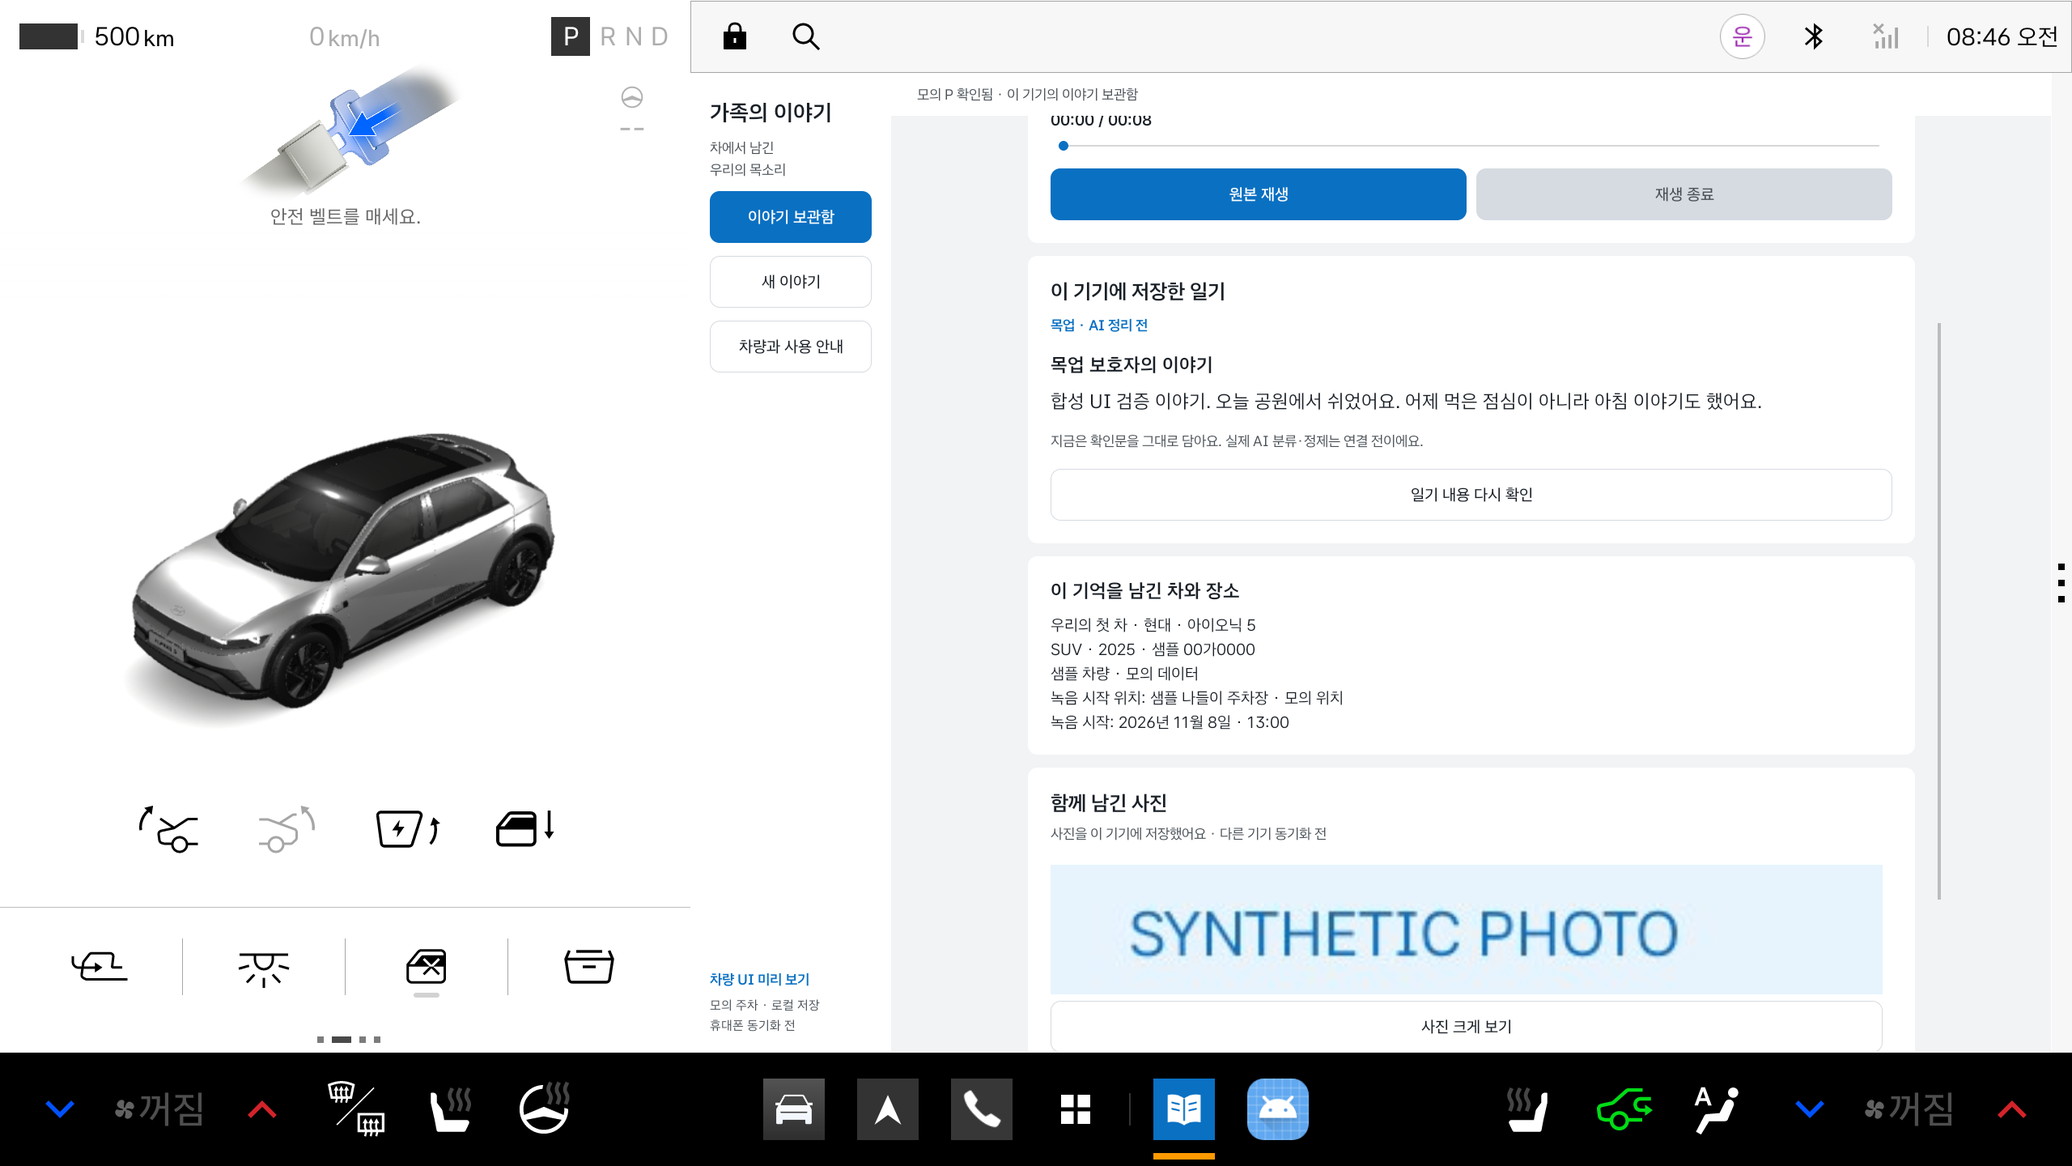
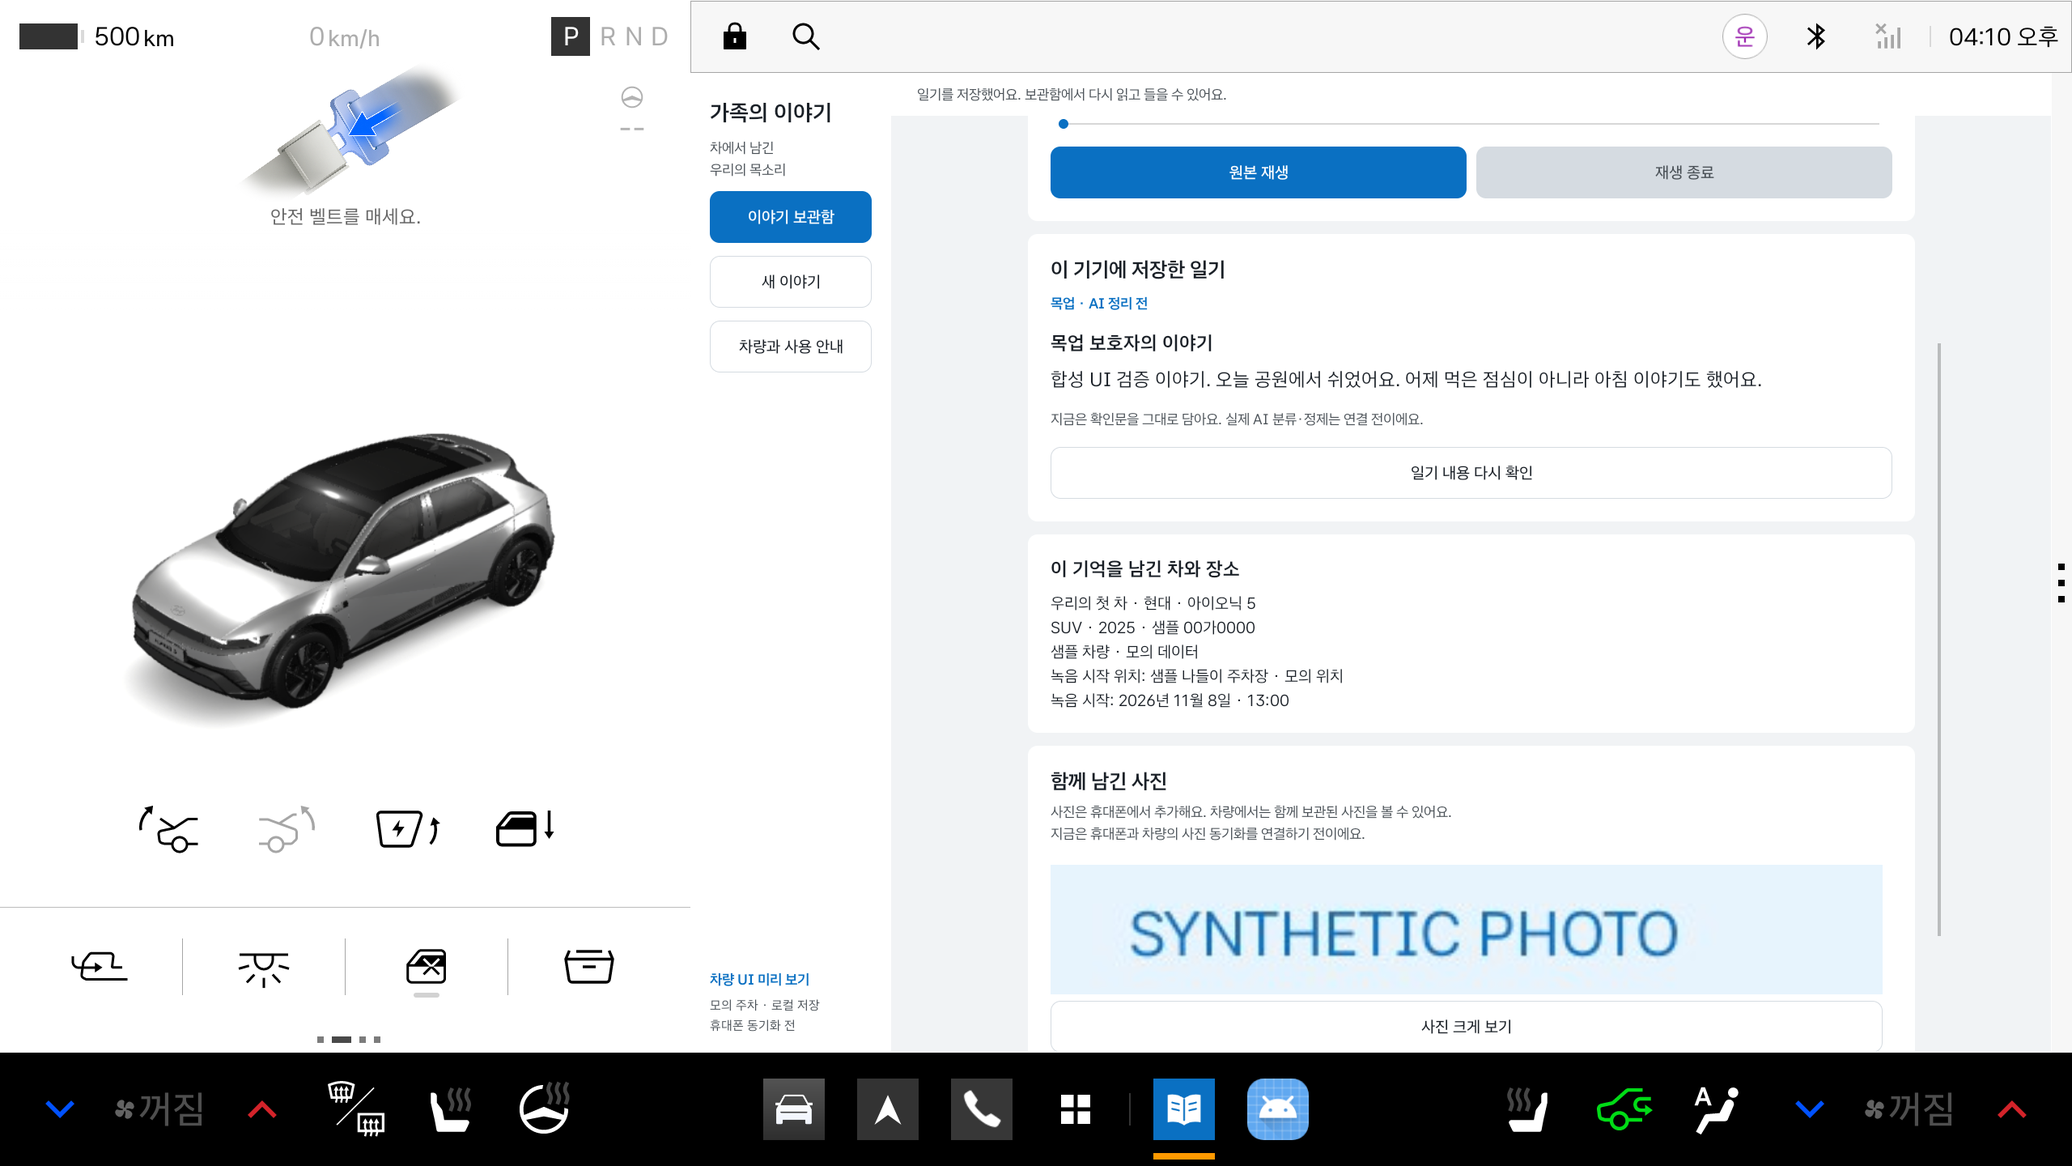
fix(vehicle): keep photo attachments on phone and web

diff --git a/apps/vehicle/app/src/probe/java/io/hmg/familydiary/MainActivity.kt b/apps/vehicle/app/src/probe/java/io/hmg/familydiary/MainActivity.kt
@@ -3,7 +3,6 @@ package io.hmg.familydiary
 import android.Manifest
 import android.app.Activity
 import android.app.AlertDialog
-import android.content.Intent
 import android.content.pm.PackageManager
 import android.graphics.BitmapFactory
 import android.media.AudioAttributes
@@ -68,7 +67,6 @@ class MainActivity : Activity() {
     private lateinit var editBody: LinearLayout
     private lateinit var contextBody: LinearLayout
     private lateinit var photosBody: LinearLayout
-    private lateinit var photoButton: Button
     private lateinit var photoStatus: TextView
     private lateinit var navigation: List<Button>
     private lateinit var tabs: List<Button>
@@ -80,8 +78,6 @@ class MainActivity : Activity() {
     private var loadGeneration = 0
     private var openGeneration = 0
     private var photoGeneration = 0
-    private var pendingPhotoId: String? = null
-    private var importing = false
     private var modal: AlertDialog? = null
     private var player: MediaPlayer? = null
     private var prepared = false
@@ -316,9 +312,8 @@ class MainActivity : Activity() {
         contextBody = ui.column(); ui.add(body, contextBody, 16)
         val photoCard = ui.card(body)
         ui.add(photoCard, ui.text("함께 남긴 사진", 26f, true))
-        photoStatus = ui.text("직접 고른 사진만 이 기기에 보관해요 · 최대 8장", 18f, color = ui.muted); ui.add(photoCard, photoStatus, 12)
+        photoStatus = ui.text("사진은 휴대폰에서 추가해요. 차량에서는 함께 보관된 사진을 볼 수 있어요.\n지금은 휴대폰과 차량의 사진 동기화를 연결하기 전이에요.", 18f, color = ui.muted); ui.add(photoCard, photoStatus, 12)
         photosBody = ui.column(); ui.add(photoCard, photosBody, 16)
-        photoButton = ui.button("사진 추가") { choosePhoto() }; ui.add(photoCard, photoButton, 16)
         ui.add(body, ui.button("이 이야기 삭제") { confirmDelete() }, 24)
         return scroll
     }
@@ -436,7 +431,7 @@ class MainActivity : Activity() {
     }
     private fun vehicle() = runCatching { VehicleSnapshot.read(JSONObject(prefs.getString("profile", "{}")!!)) }.getOrDefault(VehicleSnapshot())
     private fun navigate(next: Screen) {
-        if (!allowed() || !idle() || importing || !review.save()) return
+        if (!allowed() || !idle() || !review.save()) return
         ++openGeneration; hideKeyboard(); screen = next
         if (next == Screen.LIBRARY) refreshLibrary()
         if (next == Screen.RECORD) { timer.text = "00:00"; captureContext.text = contextDescription(MemoryContext(Instant.now().toString(), vehicle(), prefs.getBoolean("mock-location", false))).substringBefore("\n녹음 시작:") + "\n녹음을 시작하는 순간의 값으로 보관해요." }
@@ -453,7 +448,7 @@ class MainActivity : Activity() {
         detail.visibility = if (allowed && screen == Screen.DETAIL) View.VISIBLE else View.GONE
         settings.visibility = if (allowed && screen == Screen.SETTINGS) View.VISIBLE else View.GONE
         navigation.forEachIndexed { index, b ->
-            b.isEnabled = allowed && idle() && !importing
+            b.isEnabled = allowed && idle()
             b.isSelected = when(index) { 0 -> screen == Screen.LIBRARY || screen == Screen.DETAIL; 1 -> screen == Screen.RECORD; else -> screen == Screen.SETTINGS }
             ui.style(b, b.isSelected)
         }
@@ -463,7 +458,6 @@ class MainActivity : Activity() {
         stop.isEnabled = player != null
         seek.isEnabled = allowed && selected != null && !capture.busy && !speech.busy && !review.busy
         recognize.isEnabled = allowed && idle() && selected != null
-        photoButton.isEnabled = allowed && idle() && !importing && selected != null
         readBody.visibility = if (tab == 0) View.VISIBLE else View.GONE
         originalBody.visibility = if (tab == 1) View.VISIBLE else View.GONE
         editBody.visibility = if (tab == 2) View.VISIBLE else View.GONE
@@ -557,36 +551,6 @@ class MainActivity : Activity() {
         review.save(); review.cancel(); capture.stop(true); stopPlayback(); speech.cancel(); abandonFocus()
         status.text = message; playbackStatus.text = "중단됨 · 자동으로 다시 재생하지 않아요"; render()
     }
-    private fun choosePhoto() {
-        if (!allowed() || !idle() || importing) return
-        pendingPhotoId = selected?.name ?: return
-        val intent = Intent(Intent.ACTION_OPEN_DOCUMENT).apply {
-            type = "image/*"; addCategory(Intent.CATEGORY_OPENABLE)
-            putExtra(Intent.EXTRA_MIME_TYPES, arrayOf("image/jpeg", "image/png", "image/webp"))
-        }
-        try { startActivityForResult(intent, 30) }
-        catch (_: android.content.ActivityNotFoundException) { pendingPhotoId = null; photoStatus.text = "이 기기에 사진 선택 앱이 없어요. 파일 선택 앱을 준비해 주세요." }
-    }
-    @Deprecated("Activity result API for platform-only prototype")
-    override fun onActivityResult(requestCode: Int, resultCode: Int, data: Intent?) {
-        super.onActivityResult(requestCode, resultCode, data)
-        if (requestCode != 30) return
-        val id = pendingPhotoId; pendingPhotoId = null
-        val uri = data?.data
-        if (resultCode != RESULT_OK || id == null || uri == null) return
-        importing = true; photoStatus.text = "사진을 이 기기에 보관하고 있어요…"; render()
-        Thread({
-            val result = runCatching { contexts.addPhoto(id, requireNotNull(contentResolver.openInputStream(uri))) }
-            runOnUiThread {
-                importing = false
-                if (isDestroyed) return@runOnUiThread
-                if (selected?.name == id) {
-                    photoStatus.text = if (result.isSuccess) "사진을 이 기기에 저장했어요 · 다른 기기 동기화 전" else "사진 저장 실패 · ${result.exceptionOrNull()?.message ?: "다시 시도해 주세요"}"
-                    loadPhotos(id)
-                }; render()
-            }
-        }, "memory-photo-import").start()
-    }
     private fun loadPhotos(id: String) {
         val token = ++photoGeneration; photosBody.removeAllViews()
         Thread({
@@ -608,7 +572,7 @@ class MainActivity : Activity() {
                         item.addView(image, LinearLayout.LayoutParams(-1, ui.dp(160)))
                         ui.add(item, ui.button("사진 크게 보기") { if (allowed() && idle()) showPhoto(file) }, 8)
                         ui.add(item, ui.button("사진 삭제") {
-                            if (allowed() && idle() && !importing) modal = AlertDialog.Builder(this).setTitle("이 사진을 삭제할까요?")
+                            if (allowed() && idle()) modal = AlertDialog.Builder(this).setTitle("이 사진을 삭제할까요?")
                                 .setMessage("이 일기에 첨부한 기기 사본만 삭제해요.").setNegativeButton("취소", null)
                                 .setPositiveButton("삭제") { _, _ -> if (allowed() && idle()) { photoStatus.text = if (contexts.deletePhoto(id, file)) "사진을 삭제했어요." else "삭제하지 못했어요. 다시 시도해 주세요."; loadPhotos(id) } }.show().also { styleDialog(it) }
                         }, 8)
@@ -633,11 +597,11 @@ class MainActivity : Activity() {
     }
     private fun confirmDelete() {
         val file = selected ?: return
-        if (!allowed() || !idle() || importing) return
+        if (!allowed() || !idle()) return
         modal = AlertDialog.Builder(this).setTitle("이 이야기를 삭제할까요?")
             .setMessage("이 기기의 원본 음성·일기·확인문·차량 정보·첨부 사진을 함께 삭제해요.")
             .setNegativeButton("취소", null).setPositiveButton("삭제") { _, _ ->
-                if (allowed() && idle() && !importing) {
+                if (allowed() && idle()) {
                     if (file.delete()) {
                         store.delete(file.name); contexts.delete(file.name); review.forgetDeleted(); selected = null
                         status.text = "이 이야기를 삭제했어요."; screen = Screen.LIBRARY; refreshLibrary(); render()

diff --git a/apps/vehicle/app/src/androidTestProbe/java/io/hmg/familydiary/ReviewDeviceTest.kt b/apps/vehicle/app/src/androidTestProbe/java/io/hmg/familydiary/ReviewDeviceTest.kt
@@ -58,7 +58,6 @@ class ReviewDeviceTest {
         context.create(file.name, io.hmg.familydiary.platform.MemoryContext("2026-11-08T04:00:00Z",
             io.hmg.familydiary.platform.VehicleSnapshot("우리의 첫 차", "현대", "아이오닉 5", "SUV", "2025", "샘플 00가0000", "synthetic"), true))
         var activity: MainActivity? = null
-        var importedUri: android.net.Uri? = null
         fun ui(action: () -> Unit) = instrumentation.runOnMainSync(action)
         fun views(v: View): List<View> = listOf(v) + if (v is ViewGroup) (0 until v.childCount).flatMap { views(v.getChildAt(it)) } else emptyList()
         fun all() = views(activity!!.window.decorView)
@@ -118,27 +117,19 @@ class ReviewDeviceTest {
             assertEquals("original", statement.getJSONArray("source_spans").getJSONObject(0).getString("utterance_id"))
             assertEquals(saved.durationMs, statement.getJSONArray("source_spans").getJSONObject(0).getLong("end_ms"))
             screenshot("synthetic-vehicle-diary.png")
-            // Intercept the OS chooser only; the app imports a real, test-owned content URI.
-            val resolver = instrumentation.targetContext.contentResolver
-            val values = android.content.ContentValues().apply {
-                put(android.provider.MediaStore.Images.Media.DISPLAY_NAME, "synthetic-diary-${UUID.randomUUID()}.png")
-                put(android.provider.MediaStore.Images.Media.MIME_TYPE, "image/png")
-                put(android.provider.MediaStore.Images.Media.RELATIVE_PATH, "Pictures/DiaryTest")
-            }
-            importedUri = requireNotNull(resolver.insert(android.provider.MediaStore.Images.Media.EXTERNAL_CONTENT_URI, values))
+            // Vehicle viewing fixture only; attachments belong to the phone/web flow.
+            ui { assertTrue(all().filterIsInstance<Button>().none { it.text == "사진 추가" }) }
             val bitmap = android.graphics.Bitmap.createBitmap(320, 180, android.graphics.Bitmap.Config.ARGB_8888)
             bitmap.eraseColor(android.graphics.Color.rgb(231, 244, 253))
             val canvas = android.graphics.Canvas(bitmap)
             val paint = android.graphics.Paint().apply { color = android.graphics.Color.rgb(10, 112, 194); textSize = 24f }
             canvas.drawText("SYNTHETIC PHOTO", 30f, 100f, paint)
-            resolver.openOutputStream(importedUri!!).use { bitmap.compress(android.graphics.Bitmap.CompressFormat.PNG, 100, it!!) }; bitmap.recycle()
-            val monitor = instrumentation.addMonitor(android.content.IntentFilter(Intent.ACTION_OPEN_DOCUMENT).apply { addCategory(Intent.CATEGORY_OPENABLE); addDataType("image/*") },
-                android.app.Instrumentation.ActivityResult(android.app.Activity.RESULT_OK, Intent().setData(importedUri)), true)
-            try { ui { button("사진 추가").performClick() }; assertEquals("Chooser was intercepted", 1, monitor.hits) } finally { instrumentation.removeMonitor(monitor) }
-            waitFor("Imported selected photo is visible") { all().filterIsInstance<Button>().any { it.text == "사진 크게 보기" } }
+            val photoBytes = java.io.ByteArrayOutputStream()
+            bitmap.compress(android.graphics.Bitmap.CompressFormat.PNG, 100, photoBytes); bitmap.recycle()
+            context.addPhoto(file.name, photoBytes.toByteArray().inputStream())
+            ui { button("일기 읽기").performClick() }
+            waitFor("Stored photo is visible on vehicle") { all().filterIsInstance<Button>().any { it.text == "사진 크게 보기" } }
             assertEquals(1, context.photos(file.name).size)
-            ui { all().filterIsInstance<CheckBox>().first().isChecked = true }
-            waitFor("Return from chooser requires parked confirmation") { button("사진 크게 보기").isShown }
             ui { button("사진 크게 보기").requestRectangleOnScreen(android.graphics.Rect(0, 0, 100, 64), false) }
             screenshot("synthetic-vehicle-context-photo.png")
             ui { button("사진 크게 보기").performClick() }
@@ -191,7 +182,7 @@ class ReviewDeviceTest {
             assertFalse(file.exists())
             assertFalse(File(instrumentation.targetContext.filesDir, "capture-review/${file.name}.json").exists())
             assertNull(context.load(file.name)); assertTrue(context.photos(file.name).isEmpty())
-        } finally { ui { activity?.finish() }; importedUri?.let { instrumentation.targetContext.contentResolver.delete(it, null, null) }; file.delete(); store.delete(file.name); context.delete(file.name) }
+        } finally { ui { activity?.finish() }; file.delete(); store.delete(file.name); context.delete(file.name) }
     }
     @Test fun contextAndPhotosStayWithOriginalAcrossReloads() {
         val file = fixture(); val other = fixture()

diff --git a/specs/001-family-trip-memory/spec.md b/specs/001-family-trip-memory/spec.md
@@ -203,7 +203,7 @@
 
 ## 사진·재방문 확장 — 2026-11-08
 
-- **FR-018**: 보호자가 일기에 사진 여러 장을 직접 첨부·확대 열람·개별 삭제할 수 있어야 한다. 파일 형식·용량·장수 제한과 저장 실패/재시도를 표시하며 저장 완료 전 완료로 알리지 않는다. 사진은 해당 가족/일기와 연결하고 기기별 전송 상태를 구분한다. 일기 삭제 시 사진도 삭제한다. 사진 자동 수집·사진 기반 사실 생성은 제외한다.
+- **FR-018**: 보호자가 휴대폰/웹에서 일기에 사진 여러 장을 직접 첨부하고, 차량과 휴대폰에서 확대 열람·개별 삭제할 수 있어야 한다. 차량에서는 파일 선택·첨부를 요구하지 않는다. 파일 형식·용량·장수 제한과 저장 실패/재시도를 표시하며 저장 완료 전 완료로 알리지 않는다. 사진은 해당 가족/일기와 연결하고 기기별 전송 상태를 구분한다. 일기 삭제 시 사진도 삭제한다. 사진 자동 수집·사진 기반 사실 생성은 제외한다.
 - **FR-019**: 녹음 시작 위치 주변의 같은 가족 과거 기록을 추천하고 사용자가 당시 음성을 들을 수 있어야 한다. 현재 기록/동시각·미래 기록/다른 보관함/삭제 기록은 제외하고 차가 달라도 같은 가족의 과거 기록은 허용한다. 위치 없음·stale·좌표 없음은 미확인으로 안내한다. 차량은 주차 확인 후에만 사용하며 자동 재생/상시 위치 추적을 하지 않는다.
 
 수용 기준: 사진 첨부 후 동일 브라우저 재열람, 다른 일기에 사진 미노출, 삭제 후 재열람에서도 삭제 유지, 잘못된 파일/용량 초과/저장 실패 시 기존 사진 유지. 재방문은 근접 좌표와 날짜를 검사하고 동일 이름만으로 결과를 만들지 않는다. 과거 기록의 목소리 열기 후에는 사용자가 재생 버튼을 누른다.

diff --git a/README.md b/README.md
@@ -110,7 +110,7 @@ pnpm probe:server
 OpenAI 모드에서 설정/응답 오류가 나면 기존 초안을 유지하며 목업으로 자동 대체하지 않는다.
 **차량과 사용 안내**에서 차 별명·제조사·모델·차종·연식·선택적 번호를 입력한다. 다음 녹음 시작에 스냅샷으로 남으며 과거 기록은 바꾸지 않는다.
 실제 GPS는 미연결이다. 기본은 위치 미수집, 샘플 위치를 켜면 녹음 시작 시점의 모의 관측으로 표시한다. 이전 원본의 누락된 맥락을 현재 값으로 채우지 않는다.
-상세의 **사진 추가**는 Android 파일 선택기의 JPG/PNG/WebP를 기기 전용 공간에 보관한다(8장, 장당 10MB). EXIF 방향을 적용하고 메타데이터를 제거하며 확대·개별 삭제를 제공한다. 사진 선택 앱에서 돌아오면 모의 P를 다시 확인한다. 웹 사진과 공유되지 않는다.
+사진 첨부는 **휴대폰/웹의 사진 추가**에서 한다. 차량에는 파일 선택 버튼이 없으며 보관된 사진의 확대·개별 삭제만 제공한다. 현재 웹 사진은 브라우저 로컬이므로 서버 동기화 연결 전에는 차량에 자동으로 나타나지 않는다.
 현재 근거 듣기는 전체 원본이며 세부 구간·다중 화자 선택·휴대폰 동기화는 후속 작업이다.
 이 로컬 연결은 인증·DB·작업자·HTTPS를 갖춘 제품용 Compose 서버와 별도인 실험 경로다.
 

diff --git a/docs/decisions.md b/docs/decisions.md
@@ -79,3 +79,9 @@
 - 재방문은 녹음 시작 위치 좌표에서 반경300m 이내의 **더 오래된 같은 보관함 기록** 최대3개를 보여준다. 이름 일치로 장소를 추정하지 않는다. 차가 달라도 같은 가족의 이전 기록은 포함한다. 300m는 초기 제품 선택이며 정확한 같은 장소 방문을 증명하지 않는다.
 - 위치 없음/미지원/stale/좌표 없음이면 재방문 결과를 생성하지 않는다. 차량은 주차 확인 시에만 제공하며 자동 재생·배경 위치 추적을 추가하지 않는다. 사용자가 과거 기록을 선택하면 전체 녹음 플레이어를 연다.
 - 헌장1.3.0, FR-018/019, T044~T046 추가. 실제 SDK 위치/주차·사진 서버 저장·기기 동기화는 미완료로 유지한다.
+
+## 2026-11-09 · 차량 파일 선택 제외
+
+- 사용자가 에뮬레이터에서 파일 저장 미지원 안내를 확인했고 휴대폰에서만 지원해도 된다고 결정했다.
+- 기존 사진 제품 범위대로 휴대폰/웹에서 첨부하고 차량에서는 보관된 사진을 열람한다. 차량의 파일 선택 버튼·호출을 제거한다.
+- 현재 웹 사진은 브라우저 로컬, 차량 사진은 기기 로컬이다. 서버 동기화가 연결되기 전 양쪽에 자동 공유된다고 표시하지 않는다.

diff --git a/specs/001-family-trip-memory/plan.md b/specs/001-family-trip-memory/plan.md
@@ -239,3 +239,8 @@ wire schema_version=1은 유지하고 계약 검증기가 source ID로 질문과
 추가 v3는 모호한 지시 대상의 임의 확정 금지와 정확한 하루를 모르는 date:null, 코드 펜스 없는 출력을 명시한다.
 v2 평가에서 발견한 E13/E14를 회귀 자료로 전환하고 새로운 E16을 분리한다. 원래 3항목의 v2 검사와
 v3 추가 검사 범위를 구분하며, 재시도 성공만 남기는 대신 버전별 첫 응답을 모두 보존한다.
+
+### 차량 파일 선택 제외 — 2026-11-09
+
+사용자 확인: 차량 에뮬레이터 파일 저장 미지원. 사진 첨부는 휴대폰/웹에 두고 차량의 파일 선택 호출을 제거한다.
+기존 사진 열람·확대·삭제는 유지한다. 차량 UI 검사는 합성 사진을 저장소에 준비해 수행하며 폰 동기화로 주장하지 않는다.
